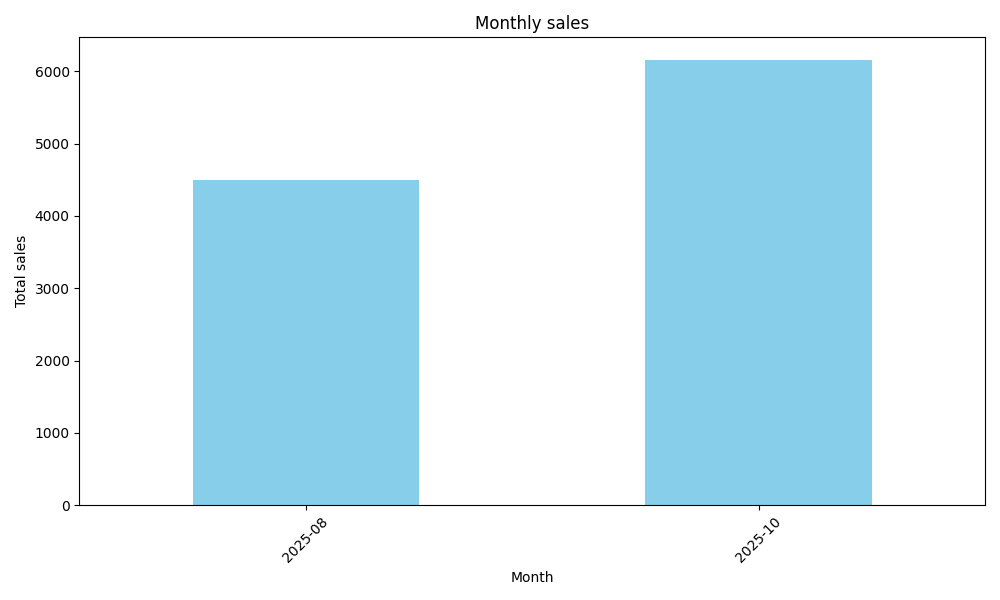
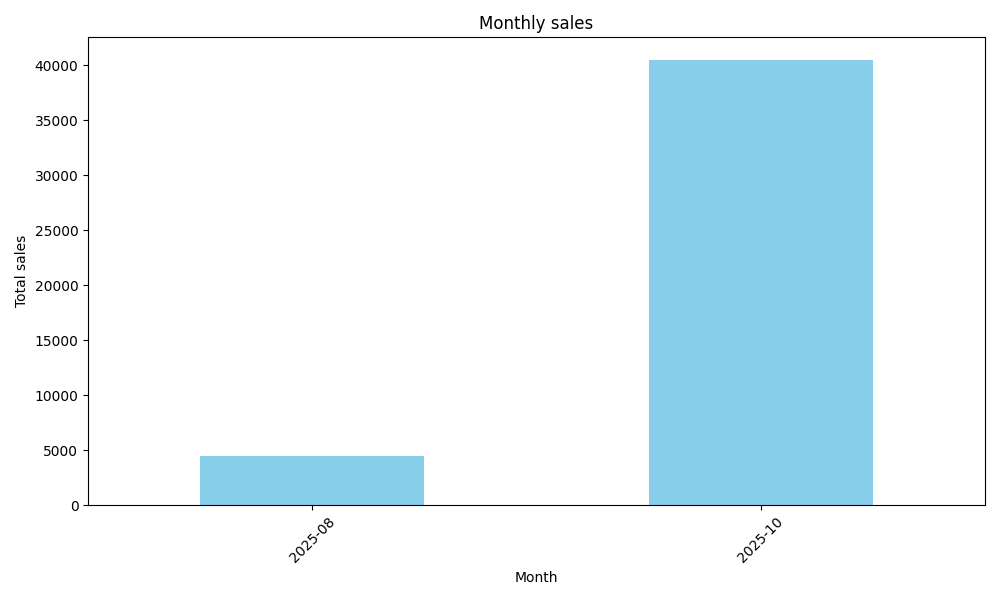
updated

diff --git a/login.css b/login.css
@@ -6,7 +6,15 @@
 }
 
 body{
-    background-image: url(assest/bgimg.jpg);
+    
+    position: relative;
+}
+
+.blurBox{
+    filter: blur(2px);
+    width: 100%;
+    height: 100%;
+    background-image: url(assest/login_image.jpg);
     background-size: cover;
     background-repeat: no-repeat;
     background-position: center;

diff --git a/index.php b/index.php
@@ -3,62 +3,127 @@
 <head>
     <meta charset="UTF-8">
     <meta name="viewport" content="width=device-width, initial-scale=1.0">
-    <title>Our Products</title>
+    <title>LocalGo - All Products</title>
     <script src="https://cdn.tailwindcss.com"></script>
+    <script>
+        tailwind.config = {
+          theme: {
+            extend: {
+              colors: {
+                gray: { 100: '#f1f3f6', 200: '#e2e8f0', 800: '#1f2937' },
+                brand: {
+                  green: '#04472f', // LocalGo Green
+                  orange: '#ea580c', // LocalGo Orange
+                  'orange-dark': '#c2410c',
+                }
+              }
+            }
+          }
+        }
+      </script>
     <link href="https://fonts.googleapis.com/css2?family=Inter:wght@400;500;600;700;800&display=swap" rel="stylesheet">
     <link rel="stylesheet" href="https://cdn.jsdelivr.net/npm/bootstrap-icons@1.11.3/font/bootstrap-icons.min.css">
     <style>
-        body { font-family: 'Inter', sans-serif; }
+        body { 
+            font-family: 'Inter', sans-serif; 
+            
+            background-image: url(images/back.jpg);
+            background-repeat: no-repeat;
+            background-size: cover;
+         }
+        .line-clamp-2 {
+            display: -webkit-box;
+            -webkit-line-clamp: 2;
+            -webkit-box-orient: vertical;
+            overflow: hidden;
+        }
     </style>
 </head>
-<body class="bg-gray-50">
-    <?php  include("customer_header.php");?>
-    <main class="container mx-auto px-4 sm:px-6 lg:px-8">
+<body>
 
-        <div class="grid grid-cols-1 sm:grid-cols-2 md:grid-cols-3 lg:grid-cols-4 gap-8 mt-8">
+    <?php include("customer_header.php");?>
 
-            <?php
-            $stmt = $conn->prepare("SELECT * FROM products_tables");
-            $stmt->execute();
-            $result = $stmt->fetchAll(PDO::FETCH_ASSOC);
-            shuffle($result);
-            foreach ($result as $row) {
-                echo "
-                <form action='product_details.php' method='post' class='bg-white rounded-2xl shadow-lg overflow-hidden group transition-shadow duration-300 ease-in-out hover:shadow-2xl flex flex-col'>
-                    <div class='relative h-60 w-full overflow-hidden'>
-                        <img src='" . htmlspecialchars($row['product_image']) . "' alt='" . htmlspecialchars($row['product_name']) . "' class='h-full w-full object-cover group-hover:scale-110 transition-transform duration-500 ease-in-out'>
+    <?php
+    $stmt = $conn->prepare("SELECT * FROM products_tables");
+    $stmt->execute();
+    $all_products = $stmt->fetchAll(PDO::FETCH_ASSOC);
+    shuffle($all_products);
+    // Group products by Category
+    $grouped_products = [];
+    foreach ($all_products as $row) {
+        // Fallback to 'General' if no category column exists
+        $cat = $row['product_category'] ?? 'All Products'; 
+        $grouped_products[$cat][] = $row;
+    }
+    ?>
+
+    <main class="container mx-auto px-2 sm:px-4 py-6 space-y-8">
+
+        <?php foreach ($grouped_products as $category_name => $products): ?>
+            
+            <div class="bg-white rounded-lg shadow-sm border border-gray-200 overflow-hidden">
+                
+                <div class="px-6 py-4 border-b border-gray-100 flex justify-between items-center bg-white">
+                    <div>
+                        <h2 class="text-2xl font-bold text-brand-green flex items-center gap-2">
+                            <?php echo htmlspecialchars($category_name); ?>
+                            <span class="text-sm font-normal text-gray-400 bg-gray-100 px-2 py-0.5 rounded-full">
+                                <?php echo count($products); ?> Items
+                            </span>
+                        </h2>
                     </div>
-                    <div class='p-5 flex-grow flex flex-col'>
-                        <h3 class='text-lg font-bold text-gray-900 mb-2 truncate'>" . htmlspecialchars($row['product_name']) . "</h3>
-                        <p class='text-2xl font-extrabold text-gray-800 mb-4'>₹" . number_format($row['product_price']) . "</p>
+                </div>
 
-                        <input type='hidden' name='product_image' value='" . htmlspecialchars($row['product_image']) . "'>
-                        <input type='hidden' name='product_name' value='" . htmlspecialchars($row['product_name']) . "'>
-                        <input type='hidden' name='product_price' value='" . htmlspecialchars($row['product_price']) . "'>
-                        <input type='hidden' name='product_desc' value='" . htmlspecialchars($row['product_description']) . "'>
-                        <input type='hidden' name='owner_of_product_id' value='" . htmlspecialchars($row['owner_of_product_id']) . "'>
-                        <input type='hidden' name='product_id' value='" . htmlspecialchars($row['product_id']) . "'>
+                <div class="grid grid-cols-2 md:grid-cols-3 lg:grid-cols-4 xl:grid-cols-5 gap-0 divide-x divide-y divide-gray-100">
+                    
+                    <?php foreach ($products as $row): ?>
+                        <form action="product_details.php" method="post" class="group relative bg-white p-4 hover:shadow-[0_0_15px_rgba(0,0,0,0.1)] hover:z-10 transition-all duration-300 flex flex-col">
+                            
+                            <div class="relative h-48 w-full mb-4 flex items-center justify-center p-2">
+                                <img src="<?php echo htmlspecialchars($row['product_image']); ?>" 
+                                     alt="<?php echo htmlspecialchars($row['product_name']); ?>" 
+                                     class="max-h-full max-w-full object-contain group-hover:scale-105 transition-transform duration-500">
+                            </div>
 
-                        <div class='mt-auto pt-4'>
-                            <button name='view_details' type='submit' class='w-full bg-blue-600 text-white font-bold py-2.5 px-4 rounded-lg hover:bg-blue-700 transition-all duration-300 flex items-center justify-center space-x-2'>
-                                <span>View Details</span>
-                                <i class='bi bi-arrow-right-circle'></i>
-                            </button>
-                        </div>
-                    </div>
-                </form>";
-            }
-            ?>
+                            <div class="mt-auto">
+                                <h3 class="text-sm font-medium text-gray-700 hover:text-brand-orange transition-colors line-clamp-2 mb-2 h-10" title="<?php echo htmlspecialchars($row['product_name']); ?>">
+                                    <?php echo htmlspecialchars($row['product_name']); ?>
+                                </h3>
+                                
+                                <div class="flex flex-col mb-3">
+                                    <div class="flex items-center gap-2">
+                                        <span class="text-lg font-bold text-brand-orange">₹<?php echo number_format($row['product_price']); ?></span>
+                                        <span class="text-xs text-gray-400 line-through">₹<?php echo number_format($row['product_price'] * 1.15); ?></span>
+                                    </div>
+                                    <span class="text-[10px] text-green-600 font-bold">Free Delivery</span>
+                                </div>
 
-        </div>
+                                <input type="hidden" name="product_image" value="<?php echo htmlspecialchars($row['product_image']); ?>">
+                                <input type="hidden" name="product_name" value="<?php echo htmlspecialchars($row['product_name']); ?>">
+                                <input type="hidden" name="product_price" value="<?php echo htmlspecialchars($row['product_price']); ?>">
+                                <input type="hidden" name="product_desc" value="<?php echo htmlspecialchars($row['product_description']); ?>">
+                                <input type="hidden" name="owner_of_product_id" value="<?php echo htmlspecialchars($row['owner_of_product_id']); ?>">
+                                <input type="hidden" name="product_id" value="<?php echo htmlspecialchars($row['product_id']); ?>">
+
+                                <button name="view_details" type="submit" class="w-full bg-white border border-gray-200 text-gray-700 text-sm font-semibold py-2 rounded hover:bg-brand-orange hover:border-brand-orange hover:text-white transition-colors duration-200">
+                                    View Details
+                                </button>
+                            </div>
+                        </form>
+                    <?php endforeach; ?>
+                    
+                </div>
+            </div>
+        <?php endforeach; ?>
+
     </main>
     
-    <!-- Footer Placeholder -->
-    <footer class="bg-white mt-12 border-t">
-        <div class="container mx-auto px-6 py-4 text-center text-gray-500">
-            &copy; 2025 YourBrand. All Rights Reserved.
+    <footer class="bg-brand-green mt-12 py-8">
+        <div class="container mx-auto px-6 text-center text-white/80">
+            <p>&copy; 2025 LocalGo. Empowering Local Sellers.</p>
         </div>
     </footer>
 
+    <expertise-ai client="4fdfd765-2cf4-49ae-a954-d31172cef9ac"></expertise-ai><script src="https://cdn.expertise.ai/genweb/ai-genweb.js" defer></script>
 </body>
 </html>

diff --git a/customerLogin.php b/customerLogin.php
@@ -45,38 +45,40 @@ if ($_SERVER['REQUEST_METHOD'] == 'POST' || isset($_POST['login'])) {
 </head>
 
 <body>
-    <form action="<?php echo $_SERVER['PHP_SELF'] ?>" method="post">
-        <?php if (in_array($invalid_email, $error_msg)) {
-            echo '<p class="error_message" id="all_fields_error">' . $invalid_email . '</p>';
-        } ?>
-        <h1>Customer Login</h1>
-        <input autocomplete="off" class="data" type="email" name="email" placeholder="Email" required></input><br>
-        <input autocomplete="off" class="data" type="password" name="password" placeholder="Password"
-            required></input><br>
-        <button type="submit" name="login">Login</button>
-        <h4>Don't have an account ? <a href="customerSignUp.php">Sign Up</a></h4>
-        <span>OR</span><br>
-         <h4"><a class="businessAccount" href="businessLogin.php">Business Account</a></h4>
-    </form>
-        <script>
-            document.addEventListener('DOMContentLoaded', function () {
-                const form = document.querySelector('form');
-                const inputsFields = form.querySelectorAll('input');
-                const all_fields_error = document.getElementById('all_fields_error');
-                inputsFields.forEach(function (input) {
-                    input.addEventListener('focus', function () {
-                        if (all_fields_error) {
-                            all_fields_error.textContent = '';
-                        }
-                        const errorSpan = this.nextElementSibling;
+    <div class="blurBox">
+    </div>
+     <form action="<?php echo $_SERVER['PHP_SELF'] ?>" method="post">
+            <?php if (in_array($invalid_email, $error_msg)) {
+                echo '<p class="error_message" id="all_fields_error">' . $invalid_email . '</p>';
+            } ?>
+            <h1>Customer Login</h1>
+            <input autocomplete="off" class="data" type="email" name="email" placeholder="Email" required></input><br>
+            <input autocomplete="off" class="data" type="password" name="password" placeholder="Password"
+                required></input><br>
+            <button type="submit" name="login">Login</button>
+            <h4>Don't have an account ? <a href="customerSignUp.php">Sign Up</a></h4>
+            <span>OR</span><br>
+            <h4"><a class="businessAccount" href="businessLogin.php">Business Account</a></h4>
+        </form>
+    <script>
+        document.addEventListener('DOMContentLoaded', function () {
+            const form = document.querySelector('form');
+            const inputsFields = form.querySelectorAll('input');
+            const all_fields_error = document.getElementById('all_fields_error');
+            inputsFields.forEach(function (input) {
+                input.addEventListener('focus', function () {
+                    if (all_fields_error) {
+                        all_fields_error.textContent = '';
+                    }
+                    const errorSpan = this.nextElementSibling;
 
-                        if (errorSpan && errorSpan.classList.contains('error_message')) {
-                            errorSpan.textContent = '';
-                        }
-                    })
+                    if (errorSpan && errorSpan.classList.contains('error_message')) {
+                        errorSpan.textContent = '';
+                    }
                 })
             })
-        </script>
+        })
+    </script>
 </body>
 
 </html>

diff --git a/businessSignUp.php b/businessSignUp.php
@@ -75,12 +75,14 @@ if($_SERVER['REQUEST_METHOD'] === 'POST' && isset($_POST['businessSignup'])){
 <link href="https://fonts.googleapis.com/css2?family=Poppins:ital,wght@0,100;0,200;0,300;0,400;0,500;0,600;0,700;0,800;0,900;1,100;1,200;1,300;1,400;1,500;1,600;1,700;1,800;1,900&display=swap" rel="stylesheet">
 </head>
 <body>
+    <div class="blurBox">
+    </div>
     <form method="post">
         <?php if(isset($msg)): ?><p class="error"><?=htmlspecialchars($msg)?></p><?php endif;?>
         <h1>Business SignUp</h1>
         <input class="data" type="text" name="username" placeholder="Username"></input><br>
         <?php if($usernameErr):?><p class="error"><?=$usernameErr?></p><?php endif; ?>
-        <input class="data" type="email" name="email" placeholder="Email">"></input><br>
+        <input class="data" type="email" name="email" placeholder="Email"></input><br>
         <?php if($emailErr):?><p class="error"><?=$emailErr?></p><?php endif; ?>
         <input class="data" type="password" name="password" placeholder="Password"></input><br>
         <button name="businessSignup">SignUp</button>

diff --git a/customer_header.php b/customer_header.php
@@ -33,7 +33,8 @@ handle_logout();
     <nav class="container mx-auto px-4 sm:px-6 lg:px-8">
         <div class="flex items-center justify-between h-16">
             <div class="flex-shrink-0">
-                <a href="index.php" class="text-2xl font-bold text-gray-800">YourBrand</a>
+                
+                <a href="index.php" class="text-2xl font-bold text-gray-800"><img src="images/logo.png" width="90px" alt="Logo"></a>
             </div>
 
             <div class="hidden md:flex md:items-center md:mx-auto md:space-x-8">

diff --git a/businessLogin.php b/businessLogin.php
@@ -53,6 +53,8 @@ if(isset($_POST['businessLogin'])){
 <link href="https://fonts.googleapis.com/css2?family=Poppins:ital,wght@0,100;0,200;0,300;0,400;0,500;0,600;0,700;0,800;0,900;1,100;1,200;1,300;1,400;1,500;1,600;1,700;1,800;1,900&display=swap" rel="stylesheet">
 </head>
 <body>
+    <div class="blurBox">
+    </div>
     <form method="post">
         <?php if(isset($msg)): ?><p style="color:red;font-size:14px"><?=$msg?></p><?php endif; ?>
         <h1>Business Login</h1>

diff --git a/customerSignUp.php b/customerSignUp.php
@@ -99,6 +99,8 @@ try {
 </head>
 
 <body>
+    <div class="blurBox">
+    </div>
     <form action="<?php echo $_SERVER['PHP_SELF'] ?>" method="post">
             <?php
         if (in_array($fill_all_fields, $error_msg))
